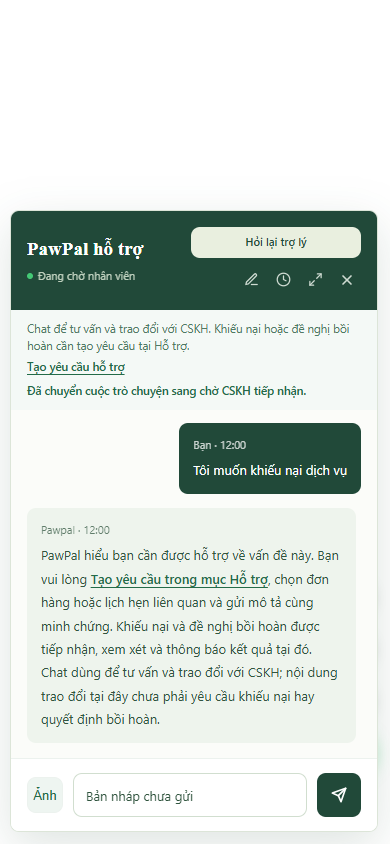
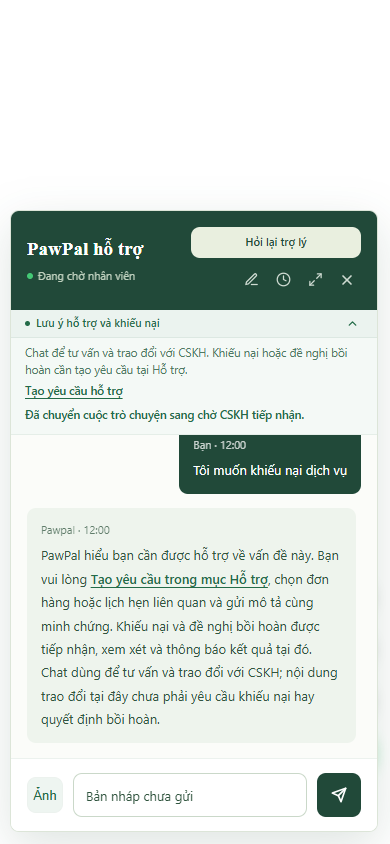
Add toggle collapse for chatbot support boundary and update dashboard views

Changed region(s): [[0.0615, 0.3697, 0.9231, 0.5237]]

diff --git a/pages/admin/modules/dashboard/subtabs/tab-dashboard-business.js b/pages/admin/modules/dashboard/subtabs/tab-dashboard-business.js
@@ -89,7 +89,6 @@
             <div class="admin-workspace-body admin-workspace-table-body" data-biz-transactions hidden></div>
           </section>
           <nav class="admin-pagination-bar biz-wide" data-biz-transactions-pagination hidden aria-label="Phân trang giao dịch"></nav>
-          <section class="admin-card admin-workspace-card biz-panel biz-wide finance-panel" data-finance-root></section>
           <section class="admin-card admin-workspace-card dash-panel biz-panel biz-wide" id="bizProfitPanel">
             <header class="dash-panel-heading admin-workspace-heading biz-panel-head biz-finance-head">
               <h3 class="admin-card-title">Kế hoạch thu và chi</h3>
@@ -132,7 +131,24 @@
           ${panel('vouchers', 'Sử dụng voucher')}
           ${panel('points', 'Biến động điểm thưởng')}
           </div>
+          <details class="admin-card admin-workspace-card biz-wide biz-finance-details" data-biz-finance hidden>
+            <summary class="admin-card-title">Sổ tài chính</summary>
+            <div>
+              <section class="biz-panel" data-finance-root></section>
+            </div>
+          </details>
         </div>`;
+
+        const finance = window.PawpalDashboardFinance;
+        const financeDetails = $('[data-biz-finance]');
+        const access = window.PawpalAdminAccess;
+        financeDetails.hidden = !(finance && access?.isAdmin?.() && access.state?.user?.permissions?.includes('finance.read'));
+        financeDetails.addEventListener('toggle', () => {
+            if (financeDetails.hidden || !financeDetails.open || !state.range || !state.root?.contains(financeDetails)) return;
+            if (financeMountedRoot) { finance.refresh(); return; }
+            financeMountedRoot = financeDetails.querySelector('[data-finance-root]');
+            finance.mount(financeMountedRoot, state.range);
+        });
 
         state.root.addEventListener('click', click);
         state.root.addEventListener('change', change);
@@ -542,11 +558,7 @@
         try {
             const range = M.period(from, to);
             state.range = range; state.data = {}; state.errors = {}; state.updated = null;
-            const financeRoot = $('[data-finance-root]');
-            if (window.PawpalDashboardFinance && financeRoot) {
-                if (financeMountedRoot !== financeRoot) { window.PawpalDashboardFinance.mount(financeRoot, range); financeMountedRoot = financeRoot; }
-                else window.PawpalDashboardFinance.setPeriod(range);
-            }
+            if (financeMountedRoot) window.PawpalDashboardFinance.setPeriod(range);
             state.drillGeneration++; state.drill = null;
             $('[data-biz-transactions]').hidden = true;
             $('[data-biz-transactions-pagination]').hidden = true;
@@ -716,7 +728,7 @@
 
     const api = {
         init,
-        refresh: () => Promise.all([state.pending || reload(), window.PawpalDashboardFinance?.refresh()]),
+        refresh: () => Promise.all([state.pending || reload(), $('[data-biz-finance]')?.open && window.PawpalDashboardFinance?.refresh()]),
         unmount,
         getMetrics,
         getLastUpdatedTime: () => state.updated ? new Date(state.updated).toLocaleTimeString('vi-VN', { timeZone: M.zone }) : 'Chưa cập nhật'

diff --git a/components/fab/fab.js b/components/fab/fab.js
@@ -99,7 +99,7 @@ function initFab(){
   syncControls();
   const labels={bot_handling:'Hỗ trợ tự động',waiting_agent:'Đang chờ nhân viên',agent_handling:'Nhân viên đang hỗ trợ',resolved:'Đã hoàn tất',closed:'Đã đóng',completed:'Đã hoàn tất',blocked:'Tạm khóa'};
   notify(labels[status]||'Đang xử lý');$('fabChatTitleText').textContent='PawPal hỗ trợ';
-  const handoffNotice=$('fabHandoffNotice');if(handoffNotice){handoffNotice.hidden=!['waiting_agent','agent_handling'].includes(status);handoffNotice.textContent=status==='agent_handling'?'CSKH đã tiếp nhận cuộc trò chuyện.':'Đã chuyển cuộc trò chuyện sang chờ CSKH tiếp nhận.';}
+  const handoffNotice=$('fabHandoffNotice');if(handoffNotice){handoffNotice.hidden=!['waiting_agent','agent_handling'].includes(status);handoffNotice.textContent=status==='agent_handling'?'CSKH đã tiếp nhận cuộc trò chuyện.':'Đã chuyển cuộc trò chuyện sang chờ CSKH tiếp nhận.';if(!handoffNotice.hidden){$('fabSupportBoundary')?.classList.remove('is-collapsed');$('fabSupportToggleBtn')?.setAttribute('aria-expanded','true');}}
  }
  function remember(){if(active)sessionStorage.setItem('pawpal_chat_active_'+identity,active);}
  function render(){
@@ -212,6 +212,11 @@ function initFab(){
   if(identity==='guest'){event.preventDefault();sessionStorage.setItem('pawpal_redirect_after_login','/user#support-create');location.assign('/login');}
  }
  $('fabSupportRequestLink')?.addEventListener('click',openSupportRequest);
+ const supportBoundary=$('fabSupportBoundary'),supportToggleBtn=$('fabSupportToggleBtn'),supportBar=$('fabSupportBoundaryBar');
+ function toggleSupportBoundary(force){if(!supportBoundary)return;const willCollapse=typeof force==='boolean'?force:!supportBoundary.classList.contains('is-collapsed');supportBoundary.classList.toggle('is-collapsed',willCollapse);if(supportToggleBtn){supportToggleBtn.setAttribute('aria-expanded',String(!willCollapse));supportToggleBtn.title=willCollapse?'Mở rộng thông báo':'Thu gọn thông báo';}sessionStorage.setItem('pawpal_fab_boundary_collapsed',willCollapse?'1':'0');}
+ supportToggleBtn?.addEventListener('click',e=>{e.stopPropagation();toggleSupportBoundary();});
+ supportBar?.addEventListener('click',()=>toggleSupportBoundary());
+ if(sessionStorage.getItem('pawpal_fab_boundary_collapsed')==='1')toggleSupportBoundary(true);
  document.addEventListener('keydown',event=>{if(event.key==='Escape'&&panel.classList.contains('open')){panel.classList.remove('open');$('fabAiBtn')?.focus();}});
  $('fabChatExpand')?.addEventListener('click',()=>panel.classList.toggle('expanded'));
  $('fabChatNewBtn')?.addEventListener('click',fresh);$('fabHistoryNewBtn')?.addEventListener('click',fresh);$('fabChatHistoryBtn')?.addEventListener('click',()=>{historyPage=0;history();});

diff --git a/components/fab/fab.css b/components/fab/fab.css
@@ -1218,7 +1218,17 @@ body:not(.admin-body) .fab-send-state button{margin-left:8px}
 .fab-member-prompt-back{display:block;width:100%;padding:10px 0;margin-top:4px;border:0;background:transparent;color:#236b48;font:500 12px/1.5 Inter,system-ui,sans-serif;cursor:pointer}
 .fab-member-prompt-contact{display:block;width:fit-content;margin:14px auto 0;color:#718476;font:400 11px/1.6 Inter,system-ui,sans-serif;text-decoration:underline;text-underline-offset:3px}
 .fab-member-prompt :is(button,a):focus-visible{outline:2px solid #236b48;outline-offset:3px}
-.fab-support-boundary{flex-shrink:0;padding:10px 16px;background:#f4f9f6;color:#4f7a65;font:400 11.5px/1.5 Inter,system-ui,sans-serif}
+.fab-support-boundary{flex-shrink:0;background:#f4f9f6;color:#4f7a65;font:400 11.5px/1.5 Inter,system-ui,sans-serif;border-bottom:1px solid #e5eee8;transition:all .2s ease}
+.fab-support-boundary-bar{display:flex;align-items:center;justify-content:space-between;padding:5px 14px;cursor:pointer;user-select:none;background:rgba(35,107,72,0.04);border-bottom:1px solid rgba(35,107,72,0.08)}
+.fab-support-boundary-summary{font-weight:600;font-size:11px;color:#236b48;display:flex;align-items:center;gap:6px}
+.fab-support-boundary-summary::before{content:'';display:inline-block;width:5px;height:5px;border-radius:50%;background:#236b48}
+.fab-support-boundary-toggle{background:transparent;border:0;padding:2px 4px;margin:0;cursor:pointer;color:#236b48;display:flex;align-items:center;justify-content:center;border-radius:4px;transition:background-color .15s}
+.fab-support-boundary-toggle:hover{background:#dceee2}
+.fab-support-toggle-icon{transition:transform .2s ease;display:block}
+.fab-support-boundary.is-collapsed .fab-support-toggle-icon{transform:rotate(180deg)}
+.fab-support-boundary-body{padding:6px 14px 10px 14px}
+.fab-support-boundary.is-collapsed .fab-support-boundary-body{display:none}
+.fab-support-boundary.is-collapsed .fab-support-boundary-bar{border-bottom-color:transparent}
 .fab-support-boundary p{margin:0 0 4px}
 .fab-support-boundary a{color:#236b48;font-weight:600;text-decoration:underline;text-underline-offset:3px}
 .fab-support-boundary a:focus-visible{outline:2px solid #236b48;outline-offset:3px}

diff --git a/components/fab/fab.html b/components/fab/fab.html
@@ -98,10 +98,20 @@
 
     <!-- Màn hình Chat chính -->
     <div class="fab-chat-main-view" id="fabChatMainView">
-        <div class="fab-support-boundary">
-            <p>Chat để tư vấn và trao đổi với CSKH. Khiếu nại hoặc đề nghị bồi hoàn cần tạo yêu cầu tại Hỗ trợ.</p>
-            <a href="/user#support-create" id="fabSupportRequestLink">Tạo yêu cầu hỗ trợ</a>
-            <p id="fabHandoffNotice" role="status" aria-live="polite" hidden></p>
+        <div class="fab-support-boundary" id="fabSupportBoundary">
+            <div class="fab-support-boundary-bar" id="fabSupportBoundaryBar">
+                <span class="fab-support-boundary-summary">Lưu ý hỗ trợ và khiếu nại</span>
+                <button type="button" class="fab-support-boundary-toggle" id="fabSupportToggleBtn" title="Thu gọn / Mở rộng" aria-label="Thu gọn hoặc mở rộng thông báo" aria-expanded="true">
+                    <svg class="fab-support-toggle-icon" width="13" height="13" viewBox="0 0 24 24" fill="none" stroke="currentColor" stroke-width="2.5" stroke-linecap="round" stroke-linejoin="round">
+                        <polyline points="18 15 12 9 6 15"></polyline>
+                    </svg>
+                </button>
+            </div>
+            <div class="fab-support-boundary-body" id="fabSupportBoundaryBody">
+                <p>Chat để tư vấn và trao đổi với CSKH. Khiếu nại hoặc đề nghị bồi hoàn cần tạo yêu cầu tại Hỗ trợ.</p>
+                <a href="/user#support-create" id="fabSupportRequestLink">Tạo yêu cầu hỗ trợ</a>
+                <p id="fabHandoffNotice" role="status" aria-live="polite" hidden></p>
+            </div>
         </div>
         <div class="fab-toxic-banner" id="fabToxicBanner" style="display: none;"></div>
         <div class="fab-chat-messages" id="fabChatMessages">

diff --git a/pages/admin/modules/dashboard/subtabs/tab-dashboard-operations.js b/pages/admin/modules/dashboard/subtabs/tab-dashboard-operations.js
@@ -135,12 +135,15 @@
     async function readPaged(buildQuery, orderColumn = 'id') {
         const rows = [];
         for (let offset = 0; offset < MAX_ROWS; offset += PAGE_SIZE) {
-            const { data, error } = await buildQuery().order(orderColumn, { ascending: true }).range(offset, offset + PAGE_SIZE - 1);
+            const isLastPage = offset + PAGE_SIZE >= MAX_ROWS;
+            const end = isLastPage ? MAX_ROWS : offset + PAGE_SIZE - 1;
+            const { data, error } = await buildQuery().order(orderColumn, { ascending: true }).range(offset, end);
             if (error) throw error;
             rows.push(...(data || []));
+            if (rows.length > MAX_ROWS) return { rows: rows.slice(0, MAX_ROWS), truncated: true };
             if (!data || data.length < PAGE_SIZE) return { rows, truncated: false };
         }
-        return { rows, truncated: true };
+        return { rows, truncated: false };
     }
 
     function safeErrorMessage(error) {
@@ -317,6 +320,7 @@
             try { return await job(); } finally { const next = queue.shift(); if (next) next(); else running--; }
         };
         await Promise.all(list.map(name => withSlot(async () => {
+            if (generation !== state.generation || versions.get(name) !== requestVersions.get(name)) return;
             try {
                 const access = window.PawpalAdminAccess;
                 if (access && (!access.isAdmin() || RESOURCE_PERMISSIONS[name].some(table => !access.state.user?.permissions?.includes(`${table}.read`)))) {

diff --git a/pages/admin/index.html b/pages/admin/index.html
@@ -12,7 +12,7 @@
     <script src="https://unpkg.com/lucide@latest" defer></script>
     <!-- CSS Quản Trị -->
     <link rel="stylesheet" href="/pages/admin/admin.css?v=46">
-    <link rel="stylesheet" href="/pages/admin/modules/dashboard/dashboard.css?v=20261122_dashboard_panels_v3">
+    <link rel="stylesheet" href="/pages/admin/modules/dashboard/dashboard.css?v=20261123_dashboard_finance_details">
     <link rel="stylesheet" href="/pages/admin/modules/customers/customers.css?v=8.1">
     <link rel="stylesheet" href="/pages/admin/modules/pets/pets.css?v=20261101_code_ellipsis">
     <link rel="stylesheet" href="/pages/admin/modules/orders/orders.css?v=44">
@@ -152,7 +152,7 @@
     <script src="/pages/admin/admin-data-store.js?v=20261022_copilot_v4"></script>
 
     <!-- Script điều hướng hệ thống Admin -->
-    <script src="/pages/admin/admin.js?v=20261122_scheduled_staff_only"></script>
+    <script src="/pages/admin/admin.js?v=20261123_dashboard_finance_details"></script>
     <script src="/pages/admin/complaint-notices.js?v=2" defer></script>
 </body>
 </html>

diff --git a/pages/admin/modules/dashboard/dashboard.css b/pages/admin/modules/dashboard/dashboard.css
@@ -2272,6 +2272,19 @@ button[disabled]{cursor:not-allowed}
     border-top: none;
     padding-top: 10px;
 }
+.business-dash .biz-finance-details > summary {
+    display: list-item;
+    list-style: none;
+    cursor: pointer;
+    padding: 12px 16px;
+}
+.business-dash .biz-finance-details > summary::-webkit-details-marker {
+    display: none;
+}
+.business-dash .biz-finance-details > summary:hover {
+    text-decoration: underline;
+}
+
 .business-dash .biz-summary {
     cursor: pointer;
     font-size: 12px;

diff --git a/pages/admin/admin.js b/pages/admin/admin.js
@@ -834,7 +834,7 @@ document.addEventListener('DOMContentLoaded', async () => {
     }
 
     // Version tĩnh cho cache-busting — cập nhật sau mỗi đợt deploy
-    const MODULE_SCRIPT_VERSION = '20261122_scheduled_staff_only';
+    const MODULE_SCRIPT_VERSION = '20261123_dashboard_finance_details';
     let staffDomainScriptsReady;
     async function loadStaffDomainScripts() {
         if (!staffDomainScriptsReady) staffDomainScriptsReady = (async () => {

diff --git a/docs/verification/dashboard-release-check.md b/docs/verification/dashboard-release-check.md
@@ -107,3 +107,12 @@ Các phần điều phối/lịch sử còn thiếu ở mục 2, nghiệm thu P0
 - Phát hiện qua ảnh điện thoại: các nhóm biểu đồ vẫn giữ hai cột, làm cắt số trong biểu đồ tròn và thu nhỏ biểu đồ so sánh. Đã xếp nhóm thành một cột ở màn hình hẹp. Bảng sản phẩm/dịch vụ cho phép tên xuống dòng và giữ số lượng/giá trị trong chiều rộng khung, không phải cuộn ngang chỉ để thấy số.
 - Xác minh bằng ảnh sau sửa và hình học DOM: biểu đồ so sánh đủ rộng, số trong biểu đồ tròn không tràn, ba cột bảng xếp hạng nằm trong khung. Các bảng nghiệp vụ nhiều cột vẫn cuộn riêng. Đối chiếu style với Khách hàng và kiểm thử tại 1440/820/390/320px đạt.
 - Bộ kiểm tra Admin thật đạt với 42 đường dẫn API đọc, năm hồ sơ nguồn mở đúng, không lỗi JavaScript và không yêu cầu ghi nghiệp vụ. Các kiểm tra phân tích/chứng minh, sổ tài chính, style và bảng việc đạt. Cache giao diện đổi thành `20261122_dashboard_panels_v3`; không thay đổi CSDL và chưa push.
+
+
+## Kiểm tra Dashboard ngày 24/11/2026
+
+- Kiểm thử trình duyệt dùng mã giao diện trong workspace với Supabase thật qua tài khoản Admin. Điều hành, bảng việc, Kinh doanh và Sổ tài chính thu gọn đều đạt. Đã mở năm hồ sơ nguồn qua 42 đường dẫn API đọc. Bài kiểm thử chặn ghi nghiệp vụ.
+- Kiểm tra mã Kinh doanh đang phục vụ trên Vercel cho thấy bản công khai chưa có Sổ tài chính thu gọn. Kết quả kiểm thử mã trong workspace chưa xác nhận phát hành frontend.
+- Điều hành kiểm tra thêm dòng 5.001 trong lượt đọc cuối để xác định dữ liệu bị cắt. Bài kiểm thử trình duyệt xác nhận đúng 5.000 dòng không báo thiếu, 5.001 dòng có báo thiếu ở danh sách và KPI tổng hợp tại máy chủ vẫn giữ tổng đầy đủ. Các truy vấn còn chờ trong hàng đợi được bỏ qua nếu yêu cầu đã lỗi thời.
+- Bảng việc dùng phân công từ hồ sơ lịch hẹn và hỗ trợ. Đơn hàng, việc tồn kho và đổi trả vẫn cần nguồn giao việc phù hợp với quy trình. Ngưỡng SLA nghiệp vụ cần người phụ trách xác nhận. Kiểm thử Realtime với nghiệp vụ thật cần môi trường thử nghiệm cho phép ghi dữ liệu.
+- Chuyển các biểu đồ còn tổng hợp từ danh sách giới hạn ở trình duyệt sang nguồn tổng hợp tại máy chủ và đo độ trễ trên tập dữ liệu đại diện vẫn là đầu việc mở.
